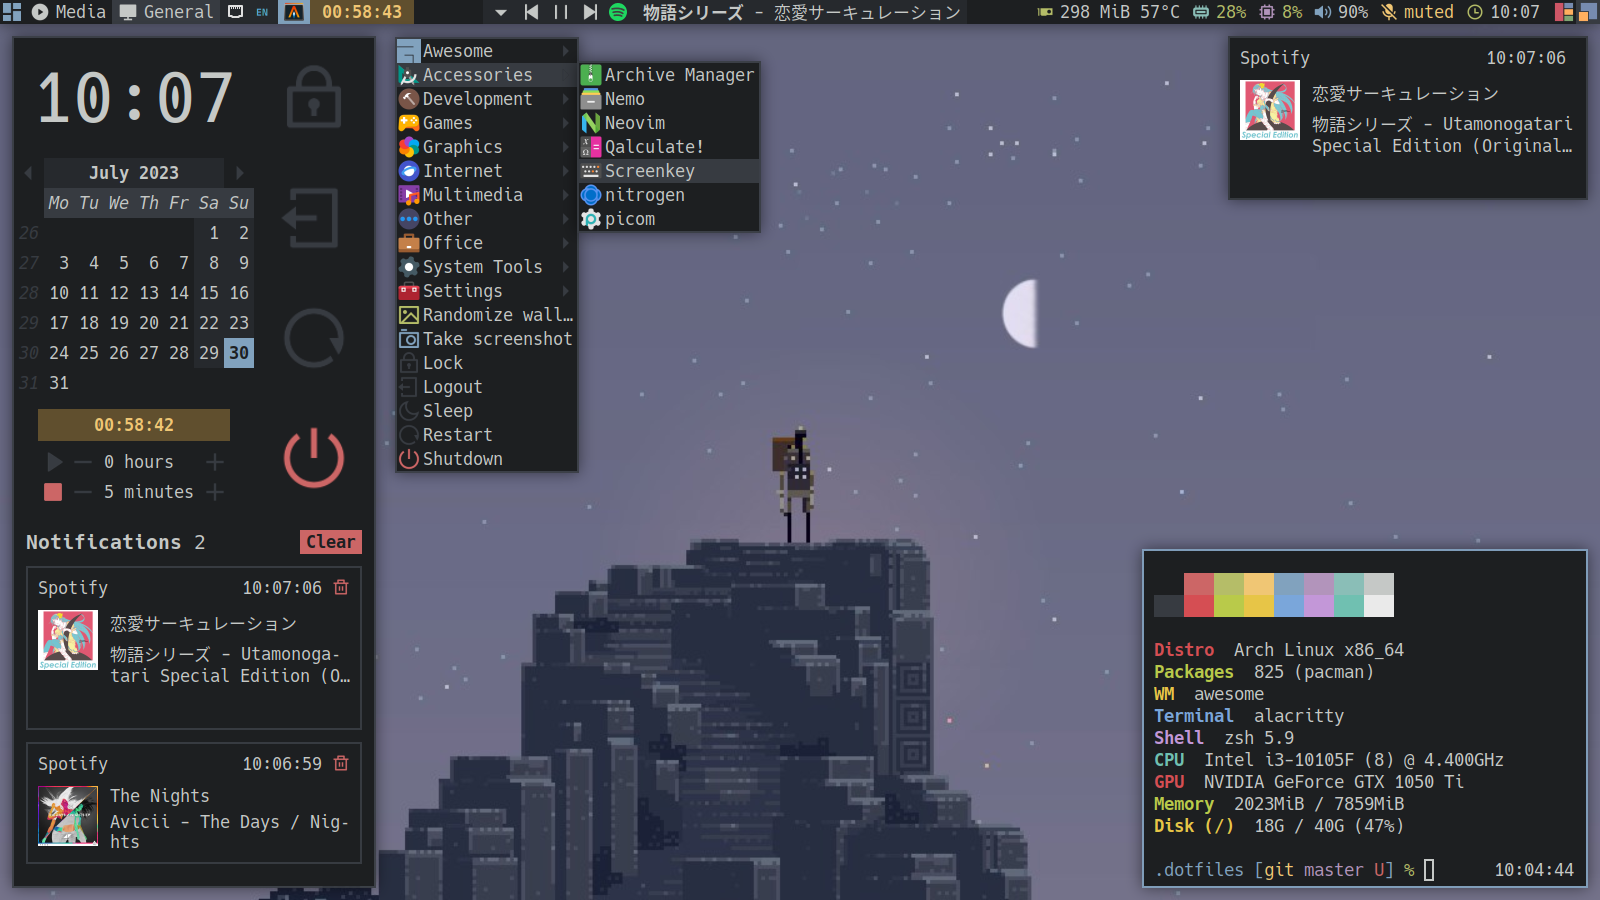
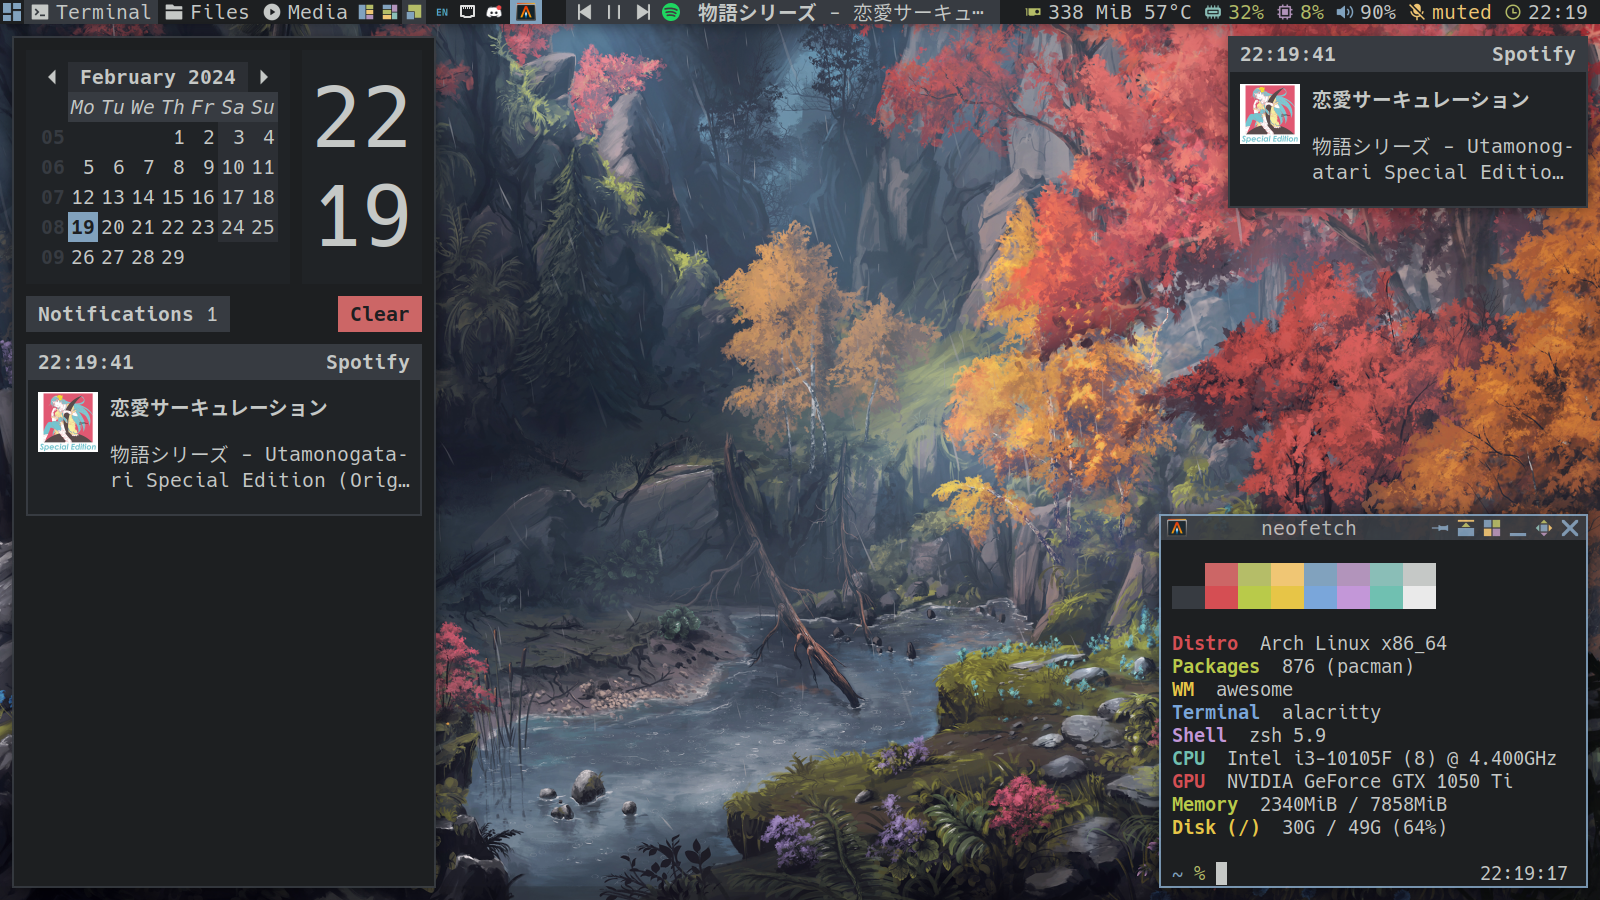
docs: add packages and change screenshots

diff --git a/docs/SETUP.md b/docs/SETUP.md
@@ -16,15 +16,15 @@
 
 ## Setup window manager
 
-| Package                                             | Description                                                                                  |
-| --------------------------------------------------- | -------------------------------------------------------------------------------------------- |
-| [Xorg](https://www.x.org/wiki/)                     | Xorg (commonly referred to as simply X) is the most popular display server among Linux users |
-| [Alacritty](https://github.com/alacritty/alacritty) | A cross-platform, GPU-accelerated terminal emulator.                                         |
-| [Picom](https://github.com/yshui/picom)             | A lightweight compositor for X11.                                                            |
-| [Slock](https://tools.suckless.org/slock)           | A simple screen locker for X.                                                                |
-| [Xss-lock](https://tools.suckless.org/slock)        | Use external locker as X screen saver.                                                       |
-| [Awesomewm](https://awesomewm.org/)                 | A highly configurable, next generation framework window manager for X.                       |
-| [I3wm](https://i3wm.org/)                           | A tiling window manager, completely written from scratch.                                    |
+| Package                                             | Description                                                                                   |
+| --------------------------------------------------- | --------------------------------------------------------------------------------------------- |
+| [Xorg](https://www.x.org/wiki/)                     | Xorg (commonly referred to as simply X) is the most popular display server among Linux users. |
+| [Alacritty](https://github.com/alacritty/alacritty) | A cross-platform, GPU-accelerated terminal emulator.                                          |
+| [Picom](https://github.com/yshui/picom)             | A lightweight compositor for X11.                                                             |
+| [Slock](https://tools.suckless.org/slock)           | A simple screen locker for X.                                                                 |
+| [Xss-lock](https://tools.suckless.org/slock)        | Use external locker as X screen saver.                                                        |
+| [Awesomewm](https://awesomewm.org/)                 | A highly configurable, next generation framework window manager for X.                        |
+| [I3wm](https://i3wm.org/)                           | A tiling window manager, completely written from scratch.                                     |
 
     # X system, compositor, terminal and screen locker
     yay -S xorg picom alacritty slock xss-lock
@@ -105,15 +105,15 @@ Consult [Archlinux Wiki](https://wiki.archlinux.org/title/xorg#Driver_installati
 | ---------------------------------------------------------------------------------- | ----------------------------------------------------------------------------- |
 | [LXAppearance](https://github.com/lxde/lxappearance)                               | Feature-rich GTK+ theme switcher of the LXDE Desktop.                         |
 | [Qt5ct](https://sourceforge.net/projects/qt5ct/)                                   | Qt5 Configuration Utility.                                                    |
-| [Skeuos theme](https://aur.archlinux.org/packages/skeuos-gtk)                      | Light and Dark window themes based on a Skeuomorphic design.                  |
-| [Papirus icon theme](https://archlinux.org/packages/extra/any/papirus-icon-theme/) | Papirus icon theme.                                                           |
+| [Orchis theme](https://github.com/vinceliuice/orchis-theme)                        | A Material Design theme for GNOME/GTK based desktop environments.             |
+| [Papirus icon theme](https://archlinux.org/packages/extra/any/papirus-icon-theme/) | A free and open source SVG icon theme for Linux.                              |
 | [Vimix cursors](https://aur.archlinux.org/packages/vimix-cursors)                  | An X Cursor theme inspired by Material design and based on capitaine-cursors. |
 
     # Application for Qt and Gtk
     yay -S lxappearance qt5ct
 
     # Install theme, icon, cursors
-    yay -S  skeuos-gtk papirus-icon-theme vimix-cursors
+    yay -S  orchis-theme papirus-icon-theme vimix-cursors
 
     # Install font
     yay -S noto-fonts noto-fonts-cjk noto-fonts-emoji noto-fonts-extra
@@ -132,11 +132,13 @@ Consult [Archlinux Wiki](https://wiki.archlinux.org/title/xorg#Driver_installati
 | [Mpv](https://mpv.io/)                                                          | A free, open source, and cross-platform media player.                                                              |
 | [Spotify](https://www.spotify.com/)                                             | A proprietary music streaming service                                                                              |
 | [Zathura](https://pwmt.org/projects/zathura/)                                   | A highly customizable and functional document viewer.                                                              |
-| [Google Chrome](https://www.google.com/chrome)                                  | The popular web browser by Google (Stable Channel)                                                                 |
+| [Google Chrome](https://www.google.com/chrome)                                  | The popular web browser by Google (Stable Channel).                                                                |
 | [Thunderbird](https://www.thunderbird.net/)                                     | Thunderbird is a free email application that's easy to set up and customize - and it's loaded with great features. |
 | [Qalculate](https://qalculate.github.io/)                                       | The ultimate desktop calculator.                                                                                   |
 | [Magnifiqus](https://github.com/redtide/magnifiqus)                             | Qt based screen magnifier.                                                                                         |
 | [Screenkey](https://www.thregr.org/~wavexx/software/screenkey/)                 | A screencast tool to display your keys inspired by Screenflick.                                                    |
+| [Gucharmap](https://wiki.gnome.org/Apps/Gucharmap)                              | The GNOME Character Map, based on the Unicode Character Database.                                                  |
+| [Gpick](https://github.com/thezbyg/gpick)                                       | Advanced color picker and palette editor.                                                                          |
 
 | Package (CLI)                                                       | Description                                                                                    |
 | ------------------------------------------------------------------- | ---------------------------------------------------------------------------------------------- |
@@ -147,7 +149,7 @@ Consult [Archlinux Wiki](https://wiki.archlinux.org/title/xorg#Driver_installati
 | [ranger](https://github.com/ranger/ranger)                          | Ranger is a console file manager with VI key bindings.                                         |
 | [fzf](https://github.com/junegunn/fzf)                              | A command-line fuzzy finder.                                                                   |
 | [playerctl](https://github.com/altdesktop/playerctl)                | For true players only: vlc, mpv, RhythmBox, web browsers, cmus, mpd, spotify and others.       |
-| [xclip](https://github.com/astrand/xclip)                           | Command line interface to the X11 clipboard                                                    |
+| [xclip](https://github.com/astrand/xclip)                           | Command line interface to the X11 clipboard.                                                   |
 | [numlockx](https://github.com/rg3/numlockx)                         | Turns on the numlock key in X11.                                                               |
 | [scrot](https://github.com/resurrecting-open-source-projects/scrot) | Command line screen capture utility.                                                           |
 | [btop](https://github.com/aristocratos/btop)                        | A monitor of system resources, bpytop ported to C++.                                           |
@@ -163,7 +165,7 @@ Consult [Archlinux Wiki](https://wiki.archlinux.org/title/xorg#Driver_installati
     xdg-user-dirs xclip numlockx scrot playerctl \
     gnome-keyring polkit-gnome \
     rofi arandr network-manager-applet \
-    viewnior nitrogen qalculate-gtk magnifiqus screenkey \
+    viewnior nitrogen qalculate-gtk magnifiqus screenkey gucharmap gpick \
     mpv yt-dlp mpv-mpris \
     spotify zenity ffmpeg4.4 \
     zathura zathura-pdf-mupdf \
@@ -300,15 +302,20 @@ Check if the scanner is detected with correct driver installed.
 
 ## Setup VirtualBox
 
-| Package                               | Description                                                    |
-| ------------------------------------- | -------------------------------------------------------------- |
-| [virtualbox](https://virtualbox.org/) | Powerful x86 virtualization for enterprise as well as home use |
+| Package                               | Description                                                     |
+| ------------------------------------- | --------------------------------------------------------------- |
+| [virtualbox](https://virtualbox.org/) | Powerful x86 virtualization for enterprise as well as home use. |
 
     # Install packages
     yay -S virtualbox
 
     # Add user to the vboxusers group
     sudo gpasswd -a $USER vboxusers
+
+    # Load the VirtualBox kernel modules
+    sudo modprobe vboxdrv
+
+VirtualBox/Install Arch Linux as a guest [here](https://wiki.archlinux.org/title/VirtualBox/Install_Arch_Linux_as_a_guest)
 
 ## Enable dark mode for google-chrome
 

diff --git a/README.md b/README.md
@@ -29,15 +29,6 @@ Here are some details about my setup:
 <br>
 
 <details open>
-<summary>Powermenu</summary>
-<br>
-
-![Screenshot](./screenshots/powermenu.png)
-
-</details>
-<br>
-
-<details open>
 <summary>Launcher</summary>
 <br>
 
